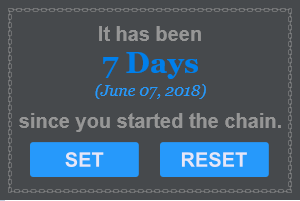
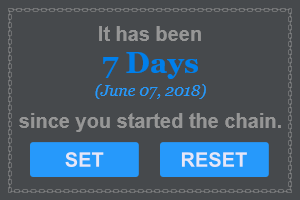
Fixing minor issues with the readme.

diff --git a/README.md b/README.md
@@ -3,7 +3,7 @@
 ## Description
 "Don't Break the Chain" is a productivity tip which was devised (to my knowledge) by Jerry Seinfeld.  The essence of the tip is that chains of activity are rewarding in their own right and are harder to break when tracked.  By doing a given activity and working toward a goal every day, each day you add another day onto the chain.  As the chain builds, you don't want to break it so even if you aren't feeling motivated you will put more time into it in order to not break the chain, which in turn gets you closer to your goal.  Seeing the days piling up is also very satisfying and a good motivator on its own, separate from the end goal.  You may read more about the methodology [here](https://www.writersstore.com/dont-break-the-chain-jerry-seinfeld/) and [here](https://lifehacker.com/281626/jerry-seinfelds-productivity-secret).
 
-This rainmeter skin helps to keep track of chains, whether to maintain a productivity streak or to help with quitting an addiction.  While crossing off days on a calendar is extremely satisfying, a more concise visualization is presented here.
+This Rainmeter skin helps to keep track of chains, whether to maintain a productivity streak or to help with quitting an addiction.  While crossing off days on a calendar is extremely satisfying, a more concise visualization is presented here.
 
 ## Installation
 
@@ -11,7 +11,7 @@ The automatic installation instructions on the Rainmeter website (found [here](h
 
 ## The Skin
 <p align="center">
-    <img src="Screenshots/main_mode.png" width=300 height=201 alt="The main screen for the skin.">
+    <img src="Screenshots/main_mode.png" width=300 height=200 alt="The main screen for the skin.">
 </p>
 
 In the default mode, a counter of the days in the chain is presented along with the date the chain was started as a reminder.  When the skin is launched for the first time, the chain is set to start on midnight of the current day.  To set the started date to another time, you simply press the start button to move to set mode.
